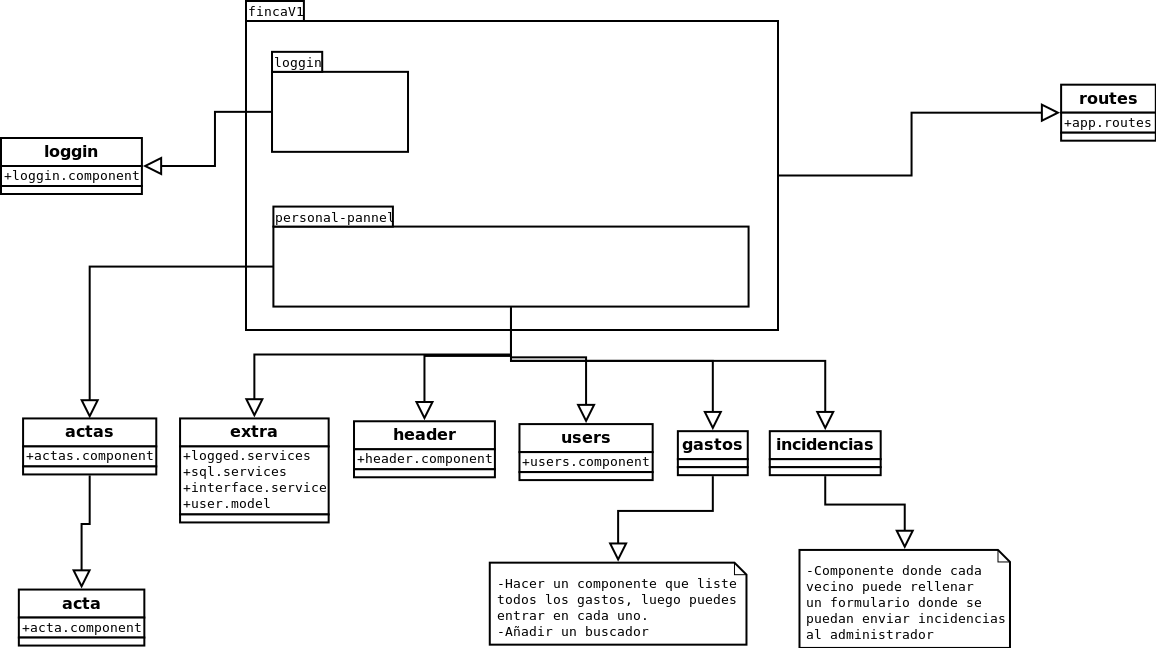
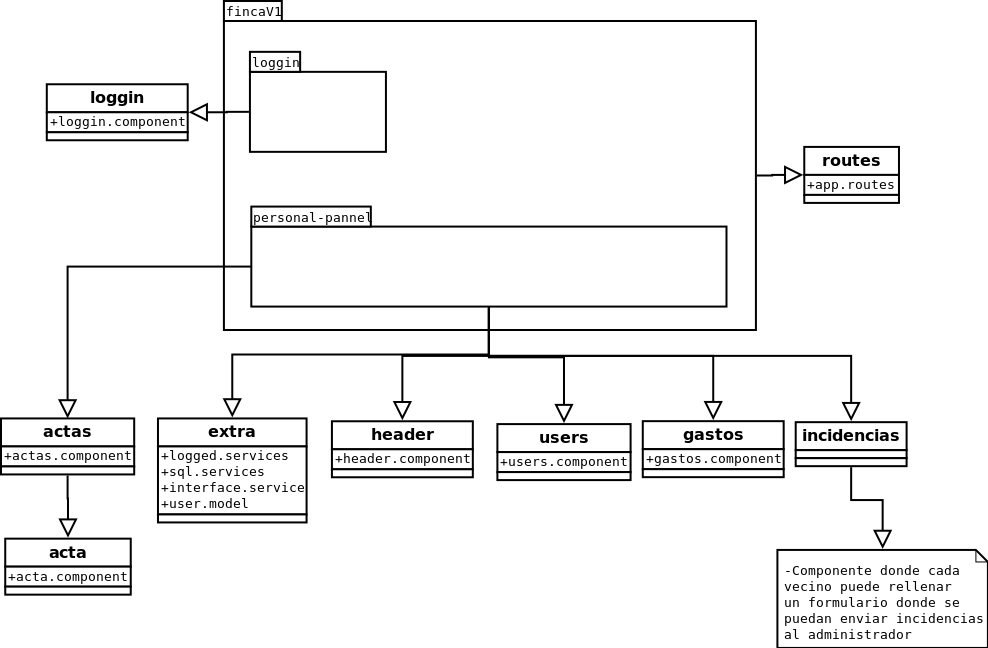
Modificacion base de datos y diagramas
Añadido a la base de datos la tabla incidencias, modificado el diagrama fincaV1_database, su respectivo png y fincaV1.dia con su respectivo png

diff --git a/src/app/app.route.ts b/src/app/app.route.ts
@@ -1,4 +1,4 @@
-import { ActaComponent } from './personal-panel/actas/acta/acta.component';
+import { IncidenciasComponent } from './personal-panel/incidencias/incidencias.component';
 import { NgModule } from "@angular/core";
 import { Routes, RouterModule } from "@angular/router";
 import { LogginComponent } from "./loggin/loggin.component";
@@ -6,7 +6,6 @@ import { PersonalPanelComponent } from "./personal-panel/personal-panel.componen
 import { UsersComponent } from "./personal-panel/users/users.component";
 import { ActasComponent } from "./personal-panel/actas/actas.component";
 import { GastosComponent } from './personal-panel/gastos/gastos.component';
-import { GastoComponent } from './personal-panel/gastos/gasto/gasto.component';
 
 const appRoutes: Routes = [
   { path: "", redirectTo: "/login", pathMatch: "full" },
@@ -14,9 +13,8 @@ const appRoutes: Routes = [
   { path: "personal_panel", component: PersonalPanelComponent, children: [
     { path: "listUsers", component: UsersComponent },
     { path: "listActas", component: ActasComponent },
-    { path: "listActas/acta", component: ActaComponent },
     { path: "gastos", component: GastosComponent},
-    { path: "gastos/gasto", component: GastoComponent }
+    { path: "incidencias",  component: IncidenciasComponent}
   ] },
   { path: "**", redirectTo: "/login" }
 ];

diff --git a/src/app/app.module.ts b/src/app/app.module.ts
@@ -15,9 +15,8 @@ import { UsersComponent } from './personal-panel/users/users.component';
 import { SqlService } from "./personal-panel/extra/sql.service";
 import { LoggedService } from "./personal-panel/extra/logged.service";
 import { ActasComponent } from './personal-panel/actas/actas.component';
-import { ActaComponent } from './personal-panel/actas/acta/acta.component';
 import { GastosComponent } from './personal-panel/gastos/gastos.component';
-import { GastoComponent } from "./personal-panel/gastos/gasto/gasto.component";
+import { IncidenciasComponent } from './personal-panel/incidencias/incidencias.component';
 
 @NgModule({
   declarations: [
@@ -27,9 +26,8 @@ import { GastoComponent } from "./personal-panel/gastos/gasto/gasto.component";
     PersonalPanelComponent, 
     UsersComponent, 
     ActasComponent, 
-    ActaComponent, 
     GastosComponent, 
-    GastoComponent
+    IncidenciasComponent
   ],
   imports: [
     BrowserModule,

diff --git a/src/app/personal-panel/header/header.component.html b/src/app/personal-panel/header/header.component.html
@@ -10,6 +10,11 @@
     <li class="nav-item active">
       <a style="cursor: pointer" class="nav-link" (click)="listActas()">Actas</a>
     </li>
+      <ul class="navbar-nav">
+        <li class="nav-item active">
+          <a style="cursor: pointer" class="nav-link" (click)="incidencias()">Incidencias</a>
+        </li>
+      </ul>
   </ul> -->
   </div>
   <ul class="navbar-nav">
@@ -27,4 +32,9 @@
       <a style="cursor: pointer" class="nav-link" (click)="listGastos()">Gastos</a>
     </li>
   </ul>
+    <ul class="navbar-nav">
+      <li class="nav-item active">
+        <a style="cursor: pointer" class="nav-link" (click)="incidencias()">Incidencias</a>
+      </li>
+    </ul>
 </nav>

diff --git a/src/app/personal-panel/incidencias/incidencias.component.html b/src/app/personal-panel/incidencias/incidencias.component.html
@@ -1,0 +1,17 @@
+<div class="row">
+  <div class="col-xs-12" class="mx-auto">
+    <form>
+      <div class="form-group">
+        <label for="exampleFormControlInput1"></label>
+        <input type="text" class="form-control">
+      </div>
+      <div class="form-group">
+        
+      </div>
+      <div class="form-group">
+        <label for="exampleFormControlTextarea1">Example textarea</label>
+        <textarea class="form-control" id="exampleFormControlTextarea1" rows="3"></textarea>
+      </div>
+    </form>
+  </div>
+</div>

diff --git a/server/database.js b/server/database.js
@@ -161,6 +161,15 @@ app.get("/allGastos", function(req, res) {
   );
 });
 
+app.get("/allGastosDesc", function(req, res){
+  connection.query(
+    "select descripcion from tipogastos",
+    function(error, result) {
+      res.end(JSON.stringify(result))
+    }
+  )
+})
+
 // app.put("/updateUser/:id&:name&:phone&:door&:type_id&:user&:pas", function(req,res) {
 //   connection.query(
 //     "update Usuario where id = ? and nombre = ? and telefono = ? and puerta = ? and tipo_id = ? and usuario = ? and password = ? ",

diff --git a/src/app/personal-panel/incidencias/incidencias.component.ts b/src/app/personal-panel/incidencias/incidencias.component.ts
@@ -1,0 +1,15 @@
+import { Component, OnInit } from '@angular/core';
+
+@Component({
+  selector: 'app-incidencias',
+  templateUrl: './incidencias.component.html',
+  styleUrls: ['./incidencias.component.css']
+})
+export class IncidenciasComponent implements OnInit {
+
+  constructor() { }
+
+  ngOnInit() {
+  }
+
+}

diff --git a/src/app/personal-panel/header/header.component.ts b/src/app/personal-panel/header/header.component.ts
@@ -20,4 +20,7 @@ export class HeaderComponent implements OnInit {
   listGastos() {
     this.route.navigate(["gastos"], { relativeTo: this.router });
   }
+  incidencias() {
+    this.route.navigate(["incidencias"], { relativeTo: this.router });
+  }
 }
